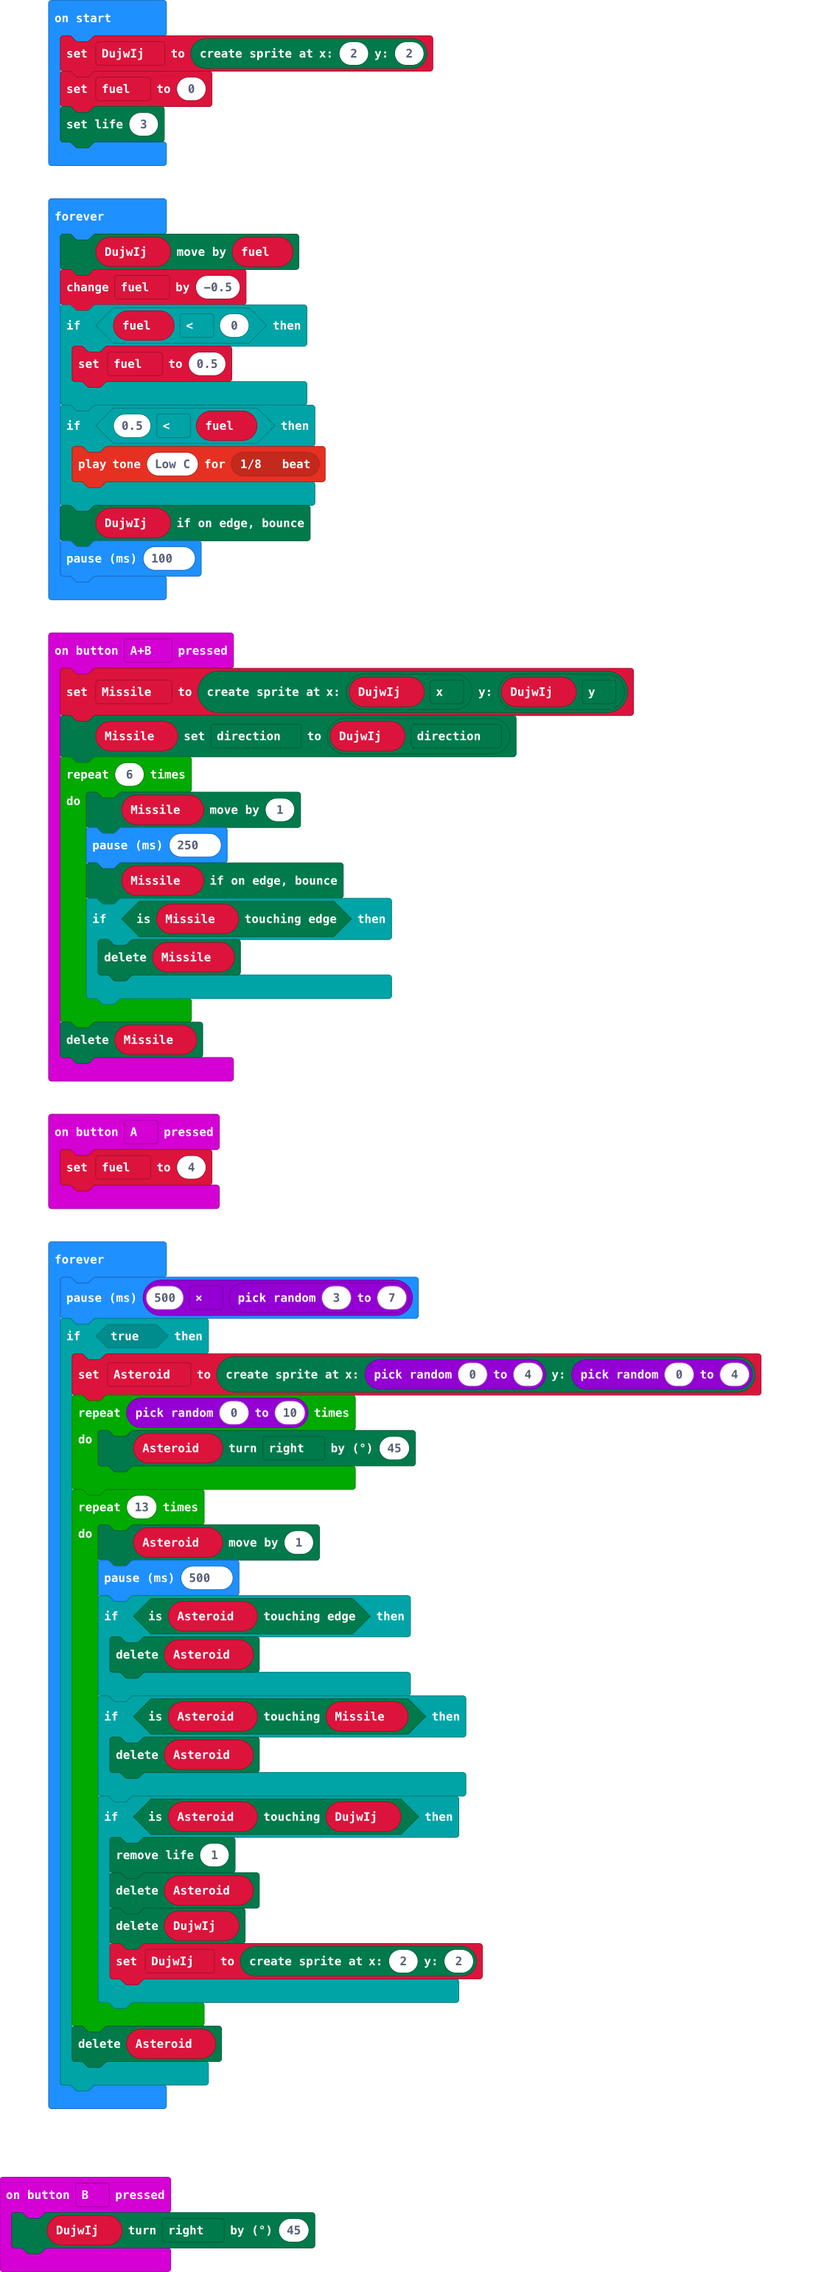
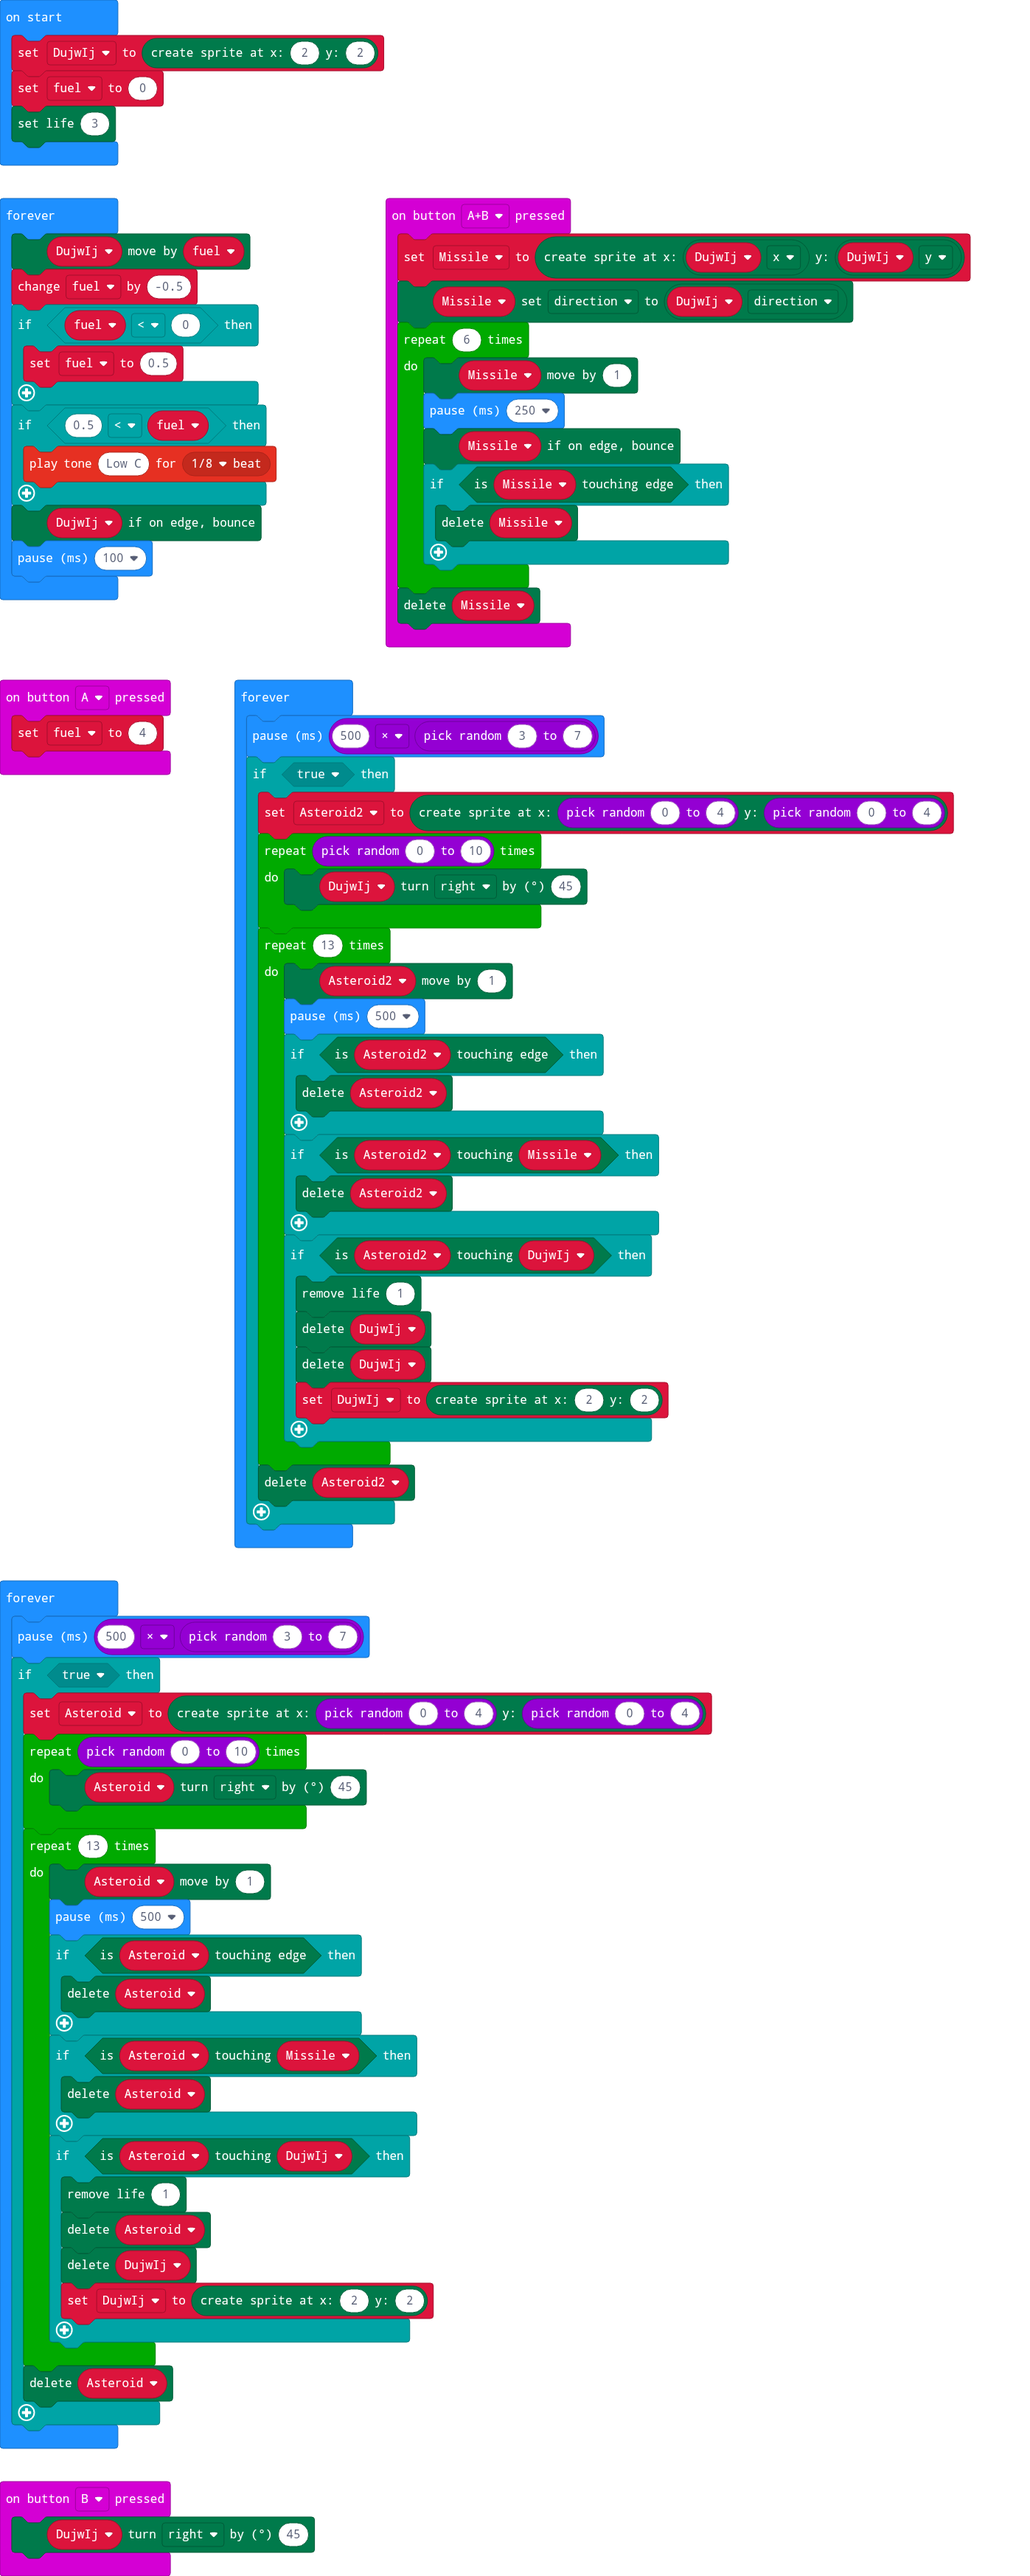
Update main.blocks, main.ts

diff --git a/main.ts b/main.ts
@@ -18,6 +18,7 @@ input.onButtonPressed(Button.B, function () {
     DujwIj.turn(Direction.Right, 45)
 })
 let Asteroid: game.LedSprite = null
+let Asteroid2: game.LedSprite = null
 let Missile: game.LedSprite = null
 let fuel = 0
 let DujwIj: game.LedSprite = null
@@ -35,6 +36,32 @@ basic.forever(function () {
     }
     DujwIj.ifOnEdgeBounce()
     basic.pause(100)
+})
+basic.forever(function () {
+    basic.pause(500 * randint(3, 7))
+    if (true) {
+        Asteroid2 = game.createSprite(randint(0, 4), randint(0, 4))
+        for (let index = 0; index < randint(0, 10); index++) {
+            DujwIj.turn(Direction.Right, 45)
+        }
+        for (let index = 0; index < 13; index++) {
+            Asteroid2.move(1)
+            basic.pause(500)
+            if (Asteroid2.isTouchingEdge()) {
+                Asteroid2.delete()
+            }
+            if (Asteroid2.isTouching(Missile)) {
+                Asteroid2.delete()
+            }
+            if (Asteroid2.isTouching(DujwIj)) {
+                game.removeLife(1)
+                DujwIj.delete()
+                DujwIj.delete()
+                DujwIj = game.createSprite(2, 2)
+            }
+        }
+        Asteroid2.delete()
+    }
 })
 basic.forever(function () {
     basic.pause(500 * randint(3, 7))
